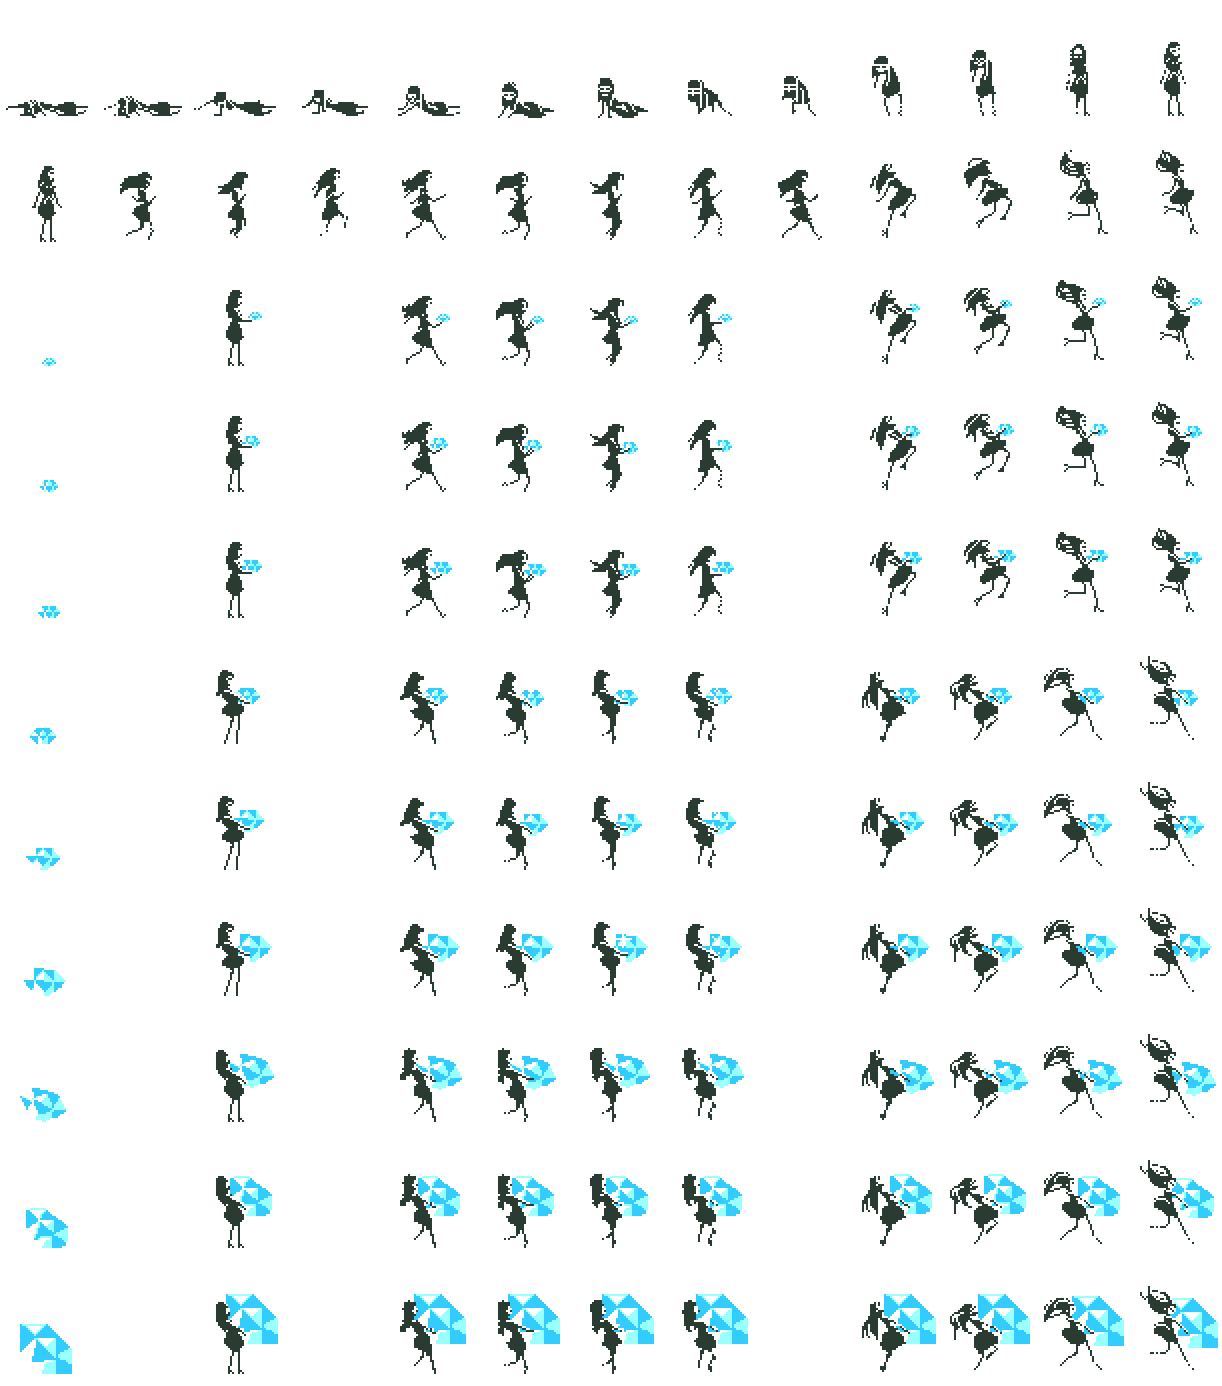
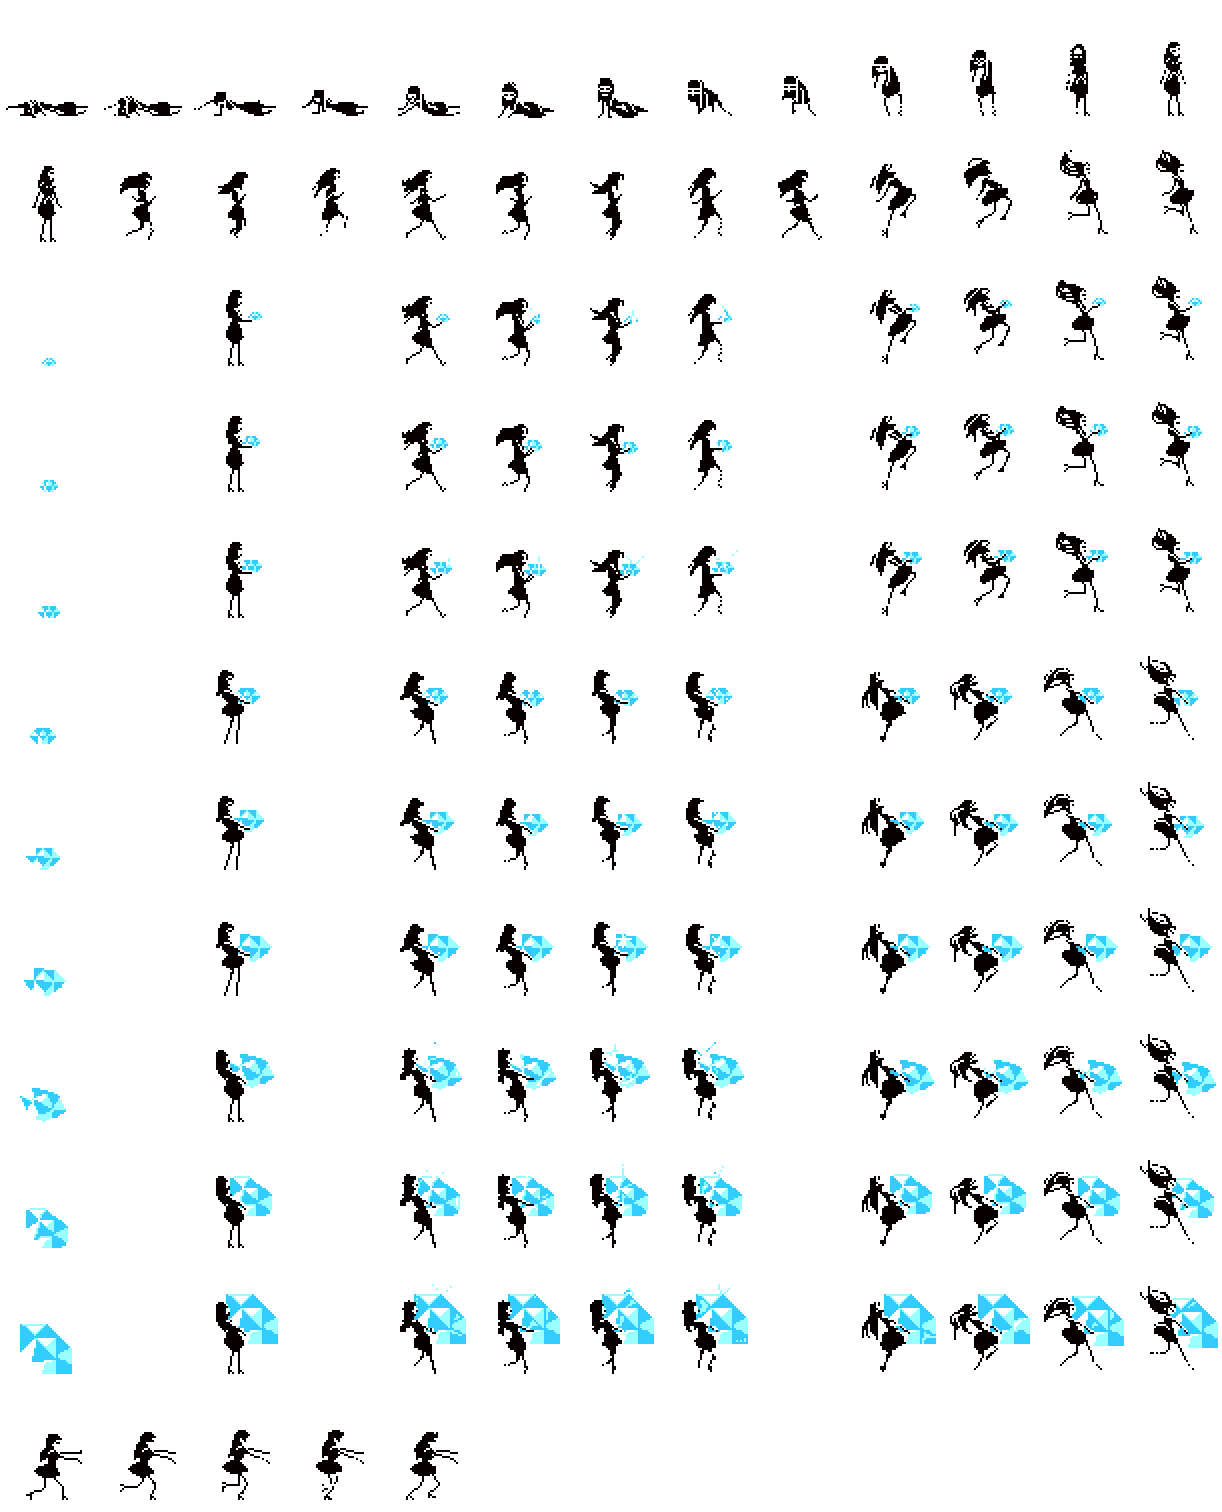
Implemented amianto pushing obstacles animation

diff --git a/src/entities/amianto02.js b/src/entities/amianto02.js
@@ -16,7 +16,8 @@ Amianto02 = BaseEntity.extend({
 				y: model.get('startingPoint').y, 
 				w: model.get('width'), 
 				h: model.get('height'), 
-				z: 300 
+				z: 300,
+				pushingObstacle: false,
 			});
 		entity['poly'] = new Crafty.polygon([[32,60],[47,38],[62,60],[55,116],[39,116]]);
 		entity
@@ -171,19 +172,29 @@ Amianto02 = BaseEntity.extend({
 						if(hit[i].obj.movable && 		  // if obstacle didnt fall into water and
 						   !this._up &&                  // Amianto is not jumping and
 						   !model.get('withDiamond')){  // Amianto isn't holding the diamond
-								// Amianto push obstacle
-								this.playAnimation("AmiantoPushing", 25, -1);
-								// move obstacle
 								hit[i].obj.x -= Math.ceil(hit[i].normal.x * -hit[i].overlap);
+								this.x += Math.ceil(hit[i].normal.y * -hit[i].overlap);
+								model._setSpeed(model.get('startingSpeed') - hit[i].obj.weight, false);
+								this.playAnimation("AmiantoPushing", 25, -1);
+								this.pushingObstacle = true;
+						} else if(this._up){
+							this.x += Math.ceil(hit[i].normal.x * -hit[i].overlap);
+							this.pushingObstacle = false;
+						} else {
+							// Amianto dont cross the obstacle at x axis, she dont,
+							// cross y axis because obstacle have grnd component
+							this.x += Math.ceil(hit[i].normal.y * -hit[i].overlap);
+							this.pushingObstacle = false;
 						}
-						// Amianto dont cross the obstacle at x axis, she dont,
-						// cross y axis because obstacle have grnd component
-						this.x += Math.ceil(hit[i].normal.x * -hit[i].overlap);
 					}
 				}
 			}, function() {
-				if(!this.isDown('LEFT_ARROW') && !this.isDown('RIGHT_ARROW'))
+				if(!this.isDown('LEFT_ARROW') && !this.isDown('RIGHT_ARROW')){
 					this.playAnimation("AmiantoStandingStill0", 57*5, -1);
+					model._setSpeed(model.get('startingSpeed'), false);
+					this.pushingObstacle = false;
+				}
+
 			})
 			.bind('KeyDown', function(e){ 
 				if(e.key ==  Crafty.keys['ENTER'] || e.key ==  Crafty.keys['SPACE']) {
@@ -274,37 +285,39 @@ Amianto02 = BaseEntity.extend({
 				if(this._y > prevPos.y) 
 					moved = "down";
 				
-				switch(moved) {
-					case "up" :
-					      if(this.isPlaying("AmiantoStandingStill" + diamond) || 
-						(this._currentReelId != "AmiantoJumpingUp" + diamond && this._currentReelId != "AmiantoJumpingFalling" + diamond))
-						      this.playAnimation("AmiantoJumpingUp" + diamond, 15, 0, 0);
-					      break;
-					case "down" :
-					      if(this._currentReelId == "AmiantoJumpingUp" + diamond && !this.isPlaying("AmiantoJumpingUp" + diamond))
-						      this.playAnimation("AmiantoJumpingFalling" + diamond, 15, 0, 0);
-					      break;
-					case "left":
-					      if(!this._flipX) 	// if moved left and is unflipped
-						      this.flip("X");	// flip sprite
-					      if(!this.isPlaying("AmiantoRunning" + diamond) && !this._up)
-						  if(!model.get('withDiamond')) 
-						      this.playAnimation("AmiantoRunning0", 40, -1);
-						  else 
-						      this.playAnimation("AmiantoRunning" + diamond, 20, -1);
-						  
-					      break;
-					case "right": 
-					      if(this._flipX) 							// if moved right and is flipped 
-						      this.unflip("X");					// unflip sprite
-					      if(!this.isPlaying("AmiantoRunning" + diamond) && !this._up)
-						  if(!model.get('withDiamond'))
-						      this.playAnimation("AmiantoRunning0", 40, -1);
-						  else
-						      this.playAnimation("AmiantoRunning" + diamond, 20, -1);
-						  
-					      break;
-				      }
+				if(!this.pushingObstacle){
+					switch(moved) {
+						case "up" :
+						      if(this.isPlaying("AmiantoStandingStill" + diamond) || 
+							(this._currentReelId != "AmiantoJumpingUp" + diamond && this._currentReelId != "AmiantoJumpingFalling" + diamond))
+							      this.playAnimation("AmiantoJumpingUp" + diamond, 15, 0, 0);
+						      break;
+						case "down" :
+						      if(this._currentReelId == "AmiantoJumpingUp" + diamond && !this.isPlaying("AmiantoJumpingUp" + diamond))
+							      this.playAnimation("AmiantoJumpingFalling" + diamond, 15, 0, 0);
+						      break;
+						case "left":
+						      if(!this._flipX) 	// if moved left and is unflipped
+							      this.flip("X");	// flip sprite
+						      if(!this.isPlaying("AmiantoRunning" + diamond) && !this._up)
+							  if(!model.get('withDiamond')) 
+							      this.playAnimation("AmiantoRunning0", 40, -1);
+							  else 
+							      this.playAnimation("AmiantoRunning" + diamond, 20, -1);
+							  
+						      break;
+						case "right": 
+						      if(this._flipX) 							// if moved right and is flipped 
+							      this.unflip("X");					// unflip sprite
+						      if(!this.isPlaying("AmiantoRunning" + diamond) && !this._up)
+							  if(!model.get('withDiamond'))
+							      this.playAnimation("AmiantoRunning0", 40, -1);
+							  else
+							      this.playAnimation("AmiantoRunning" + diamond, 20, -1);
+							  
+						      break;
+					}
+				}
 			})
 			.bind("DiamondGrew", function(to) {
 				model.set({ 'withDiamond' : to });

diff --git a/src/entities/obstacle.js b/src/entities/obstacle.js
@@ -3,6 +3,7 @@ Obstacle = BaseEntity.extend({
 	    'startingPoint' : { x: 800, y: 1271, z:300},
 	    'dimensions' : { height: 163, width: 53},
 	    'movable': true,
+	    'weight': 2,
     },
     initialize: function(){
 		var model = this,
@@ -13,7 +14,8 @@ Obstacle = BaseEntity.extend({
 				   z: model.get('startingPoint').z,
 				   h: model.get('dimensions').height,
 				   w: model.get('dimensions').width,
-				   movable: model.get('movable')
+				   movable: model.get('movable'),
+				   weight: model.get('weight'),
 			})
 			.onHit('water', function(hit) { 
 				this.movable = false;
